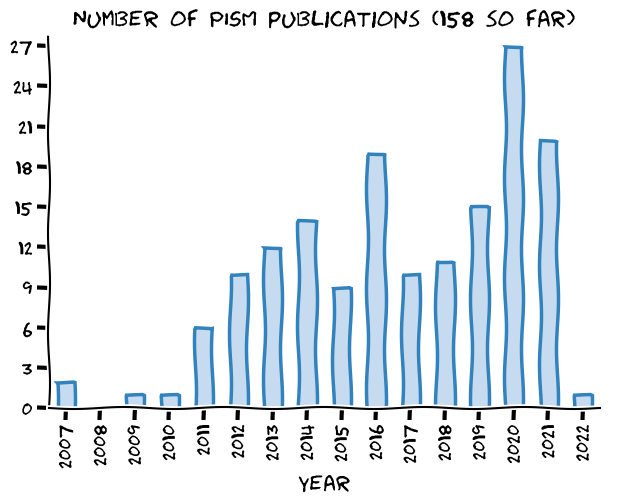
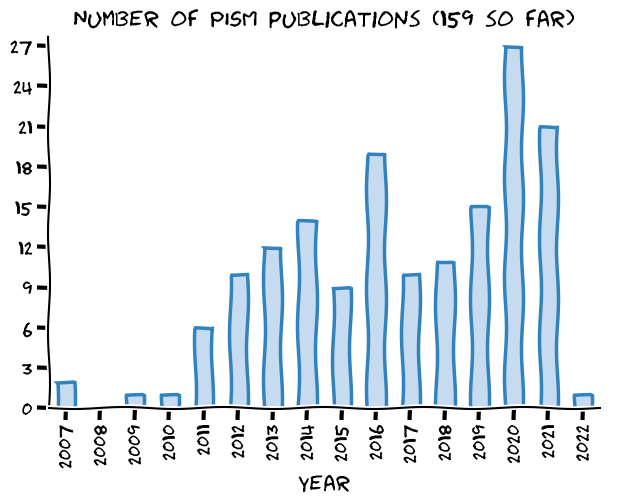
[skip ci] Update the website

diff --git a/publications/index.html b/publications/index.html
@@ -305,6 +305,7 @@ window.onscroll = function() {
   <li>J. Lai and A. M. Anders. Climatic controls on mountain glacier basal thermal regimes dictate spatial patterns of glacial erosion. <em>Earth Surface Dynamics</em>, 9(4):845–859, 2021. URL: <a href="https://esurf.copernicus.org/articles/9/845/2021/">https://esurf.copernicus.org/articles/9/845/2021/</a>, <a href="https://doi.org/10.5194/esurf-9-845-2021">doi:10.5194/esurf-9-845-2021</a>.</li>
   <li>D. P. Lowry, M. Krapp, N. R. Golledge, and A. Alevropoulos-Borrill. The influence of emissions scenarios on future Antarctic ice loss is unlikely to emerge this century. <em>Communications Earth &amp; Environment</em>, 2021. URL: <a href="https://www.nature.com/articles/s43247-021-00289-2">https://www.nature.com/articles/s43247-021-00289-2</a>, <a href="https://doi.org/10.1038/s43247-021-00289-2">doi:10.1038/s43247-021-00289-2</a>.</li>
   <li>L. Niu, G. Lohmann, P. Gierz, E. J. Gowan, and G. Knorr. Coupled climate-ice sheet modelling of MIS-13 reveals a sensitive Cordilleran Ice Sheet. <em>Global and Planetary Change</em>, pages 103474, 2021. URL: <a href="https://www.sciencedirect.com/science/article/pii/S092181812100059X">https://www.sciencedirect.com/science/article/pii/S092181812100059X</a>, <a href="https://doi.org/10.1016/j.gloplacha.2021.103474">doi:10.1016/j.gloplacha.2021.103474</a>.</li>
+  <li>Antony J. Payne, Sophie Nowicki, Ayako Abe-Ouchi, Cécile Agosta, Patrick Alexander, Torsten Albrecht, Xylar Asay-Davis, Andy Aschwanden, Alice Barthel, Thomas J. Bracegirdle, Reinhard Calov, Christopher Chambers, Youngmin Choi, Richard Cullather, Joshua Cuzzone, Christophe Dumas, Tamsin L. Edwards, Denis Felikson, Xavier Fettweis, Benjamin K. Galton-Fenzi, Heiko Goelzer, Rupert Gladstone, Nicholas R. Golledge, Jonathan M. Gregory, Ralf Greve, Tore Hattermann, Matthew J. Hoffman, Angelika Humbert, Philippe Huybrechts, Nicolas C. Jourdain, Thomas Kleiner, Peter Kuipers Munneke, Eric Larour, Sebastien Le clec’h, Victoria Lee, Gunter Leguy, William H. Lipscomb, Christopher M. Little, Daniel P. Lowry, Mathieu Morlighem, Isabel Nias, Frank Pattyn, Tyler Pelle, Stephen F. Price, Aurélien Quiquet, Ronja Reese, Martin Rückamp, Nicole-Jeanne Schlegel, Hélène Seroussi, Andrew Shepherd, Erika Simon, Donald Slater, Robin S. Smith, Fiammetta Straneo, Sainan Sun, Lev Tarasov, Luke D. Trusel, Jonas Van Breedam, Roderik van de Wal, Michiel van den Broeke, Ricarda Winkelmann, Chen Zhao, Tong Zhang, and Thomas Zwinger. Future sea level change under coupled model intercomparison project phase 5 and phase 6 scenarios from the Greenland and Antarctic ice sheets. <em>Geophysical Research Letters</em>, 48(16):e2020GL091741, 2021. e2020GL091741 2020GL091741. URL: <a href="https://agupubs.onlinelibrary.wiley.com/doi/abs/10.1029/2020GL091741">https://agupubs.onlinelibrary.wiley.com/doi/abs/10.1029/2020GL091741</a>, <a href="https://arxiv.org/abs/https://agupubs.onlinelibrary.wiley.com/doi/pdf/10.1029/2020GL091741">arXiv:https://agupubs.onlinelibrary.wiley.com/doi/pdf/10.1029/2020GL091741</a>, <a href="https://doi.org/10.1029/2020GL091741">doi:10.1029/2020GL091741</a>.</li>
   <li>S. J. Phipps, J. L. Roberts, and M. A. King. An iterative process for efficient optimisation of parameters in geoscientific models: a demonstration using the parallel ice sheet model (pism) version 0.7.3. <em>Geoscientific Model Development</em>, 14(8):5107–5124, 2021. URL: <a href="https://gmd.copernicus.org/articles/14/5107/2021/">https://gmd.copernicus.org/articles/14/5107/2021/</a>, <a href="https://doi.org/10.5194/gmd-14-5107-2021">doi:10.5194/gmd-14-5107-2021</a>.</li>
   <li>T. Schlemm and A. Levermann. A simple parametrization of mélange buttressing for calving glaciers. <em>The Cryosphere</em>, 15(2):531–545, 2021. URL: <a href="https://tc.copernicus.org/articles/15/531/2021/">https://tc.copernicus.org/articles/15/531/2021/</a>, <a href="https://doi.org/10.5194/tc-15-531-2021">doi:10.5194/tc-15-531-2021</a>.</li>
   <li>J. Seguinot and I. Delaney. Last-glacial-cycle glacier erosion potential in the alps. <em>Earth Surface Dynamics</em>, 9(4):923–935, 2021. URL: <a href="https://esurf.copernicus.org/articles/9/923/2021/">https://esurf.copernicus.org/articles/9/923/2021/</a>, <a href="https://doi.org/10.5194/esurf-9-923-2021">doi:10.5194/esurf-9-923-2021</a>.</li>

diff --git a/publications/published.md b/publications/published.md
@@ -16,14 +16,15 @@
 10. J\. Lai and A\. M\. Anders\. Climatic controls on mountain glacier basal thermal regimes dictate spatial patterns of glacial erosion\. *Earth Surface Dynamics*, 9\(4\):845–859, 2021\. URL: [https://esurf\.copernicus\.org/articles/9/845/2021/](https://esurf.copernicus.org/articles/9/845/2021/), [doi:10\.5194/esurf\-9\-845\-2021](https://doi.org/10.5194/esurf-9-845-2021)\.   
 11. D\. P\. Lowry, M\. Krapp, N\. R\. Golledge, and A\. Alevropoulos\-Borrill\. The influence of emissions scenarios on future Antarctic ice loss is unlikely to emerge this century\. *Communications Earth &amp; Environment*, 2021\. URL: [https://www\.nature\.com/articles/s43247\-021\-00289\-2](https://www.nature.com/articles/s43247-021-00289-2), [doi:10\.1038/s43247\-021\-00289\-2](https://doi.org/10.1038/s43247-021-00289-2)\.   
 12. L\. Niu, G\. Lohmann, P\. Gierz, E\. J\. Gowan, and G\. Knorr\. Coupled climate\-ice sheet modelling of MIS\-13 reveals a sensitive Cordilleran Ice Sheet\. *Global and Planetary Change*, pages 103474, 2021\. URL: [https://www\.sciencedirect\.com/science/article/pii/S092181812100059X](https://www.sciencedirect.com/science/article/pii/S092181812100059X), [doi:10\.1016/j\.gloplacha\.2021\.103474](https://doi.org/10.1016/j.gloplacha.2021.103474)\.   
-13. S\. J\. Phipps, J\. L\. Roberts, and M\. A\. King\. An iterative process for efficient optimisation of parameters in geoscientific models: a demonstration using the parallel ice sheet model \(pism\) version 0\.7\.3\. *Geoscientific Model Development*, 14\(8\):5107–5124, 2021\. URL: [https://gmd\.copernicus\.org/articles/14/5107/2021/](https://gmd.copernicus.org/articles/14/5107/2021/), [doi:10\.5194/gmd\-14\-5107\-2021](https://doi.org/10.5194/gmd-14-5107-2021)\.   
-14. T\. Schlemm and A\. Levermann\. A simple parametrization of mélange buttressing for calving glaciers\. *The Cryosphere*, 15\(2\):531–545, 2021\. URL: [https://tc\.copernicus\.org/articles/15/531/2021/](https://tc.copernicus.org/articles/15/531/2021/), [doi:10\.5194/tc\-15\-531\-2021](https://doi.org/10.5194/tc-15-531-2021)\.   
-15. J\. Seguinot and I\. Delaney\. Last\-glacial\-cycle glacier erosion potential in the alps\. *Earth Surface Dynamics*, 9\(4\):923–935, 2021\. URL: [https://esurf\.copernicus\.org/articles/9/923/2021/](https://esurf.copernicus.org/articles/9/923/2021/), [doi:10\.5194/esurf\-9\-923\-2021](https://doi.org/10.5194/esurf-9-923-2021)\.   
-16. J\. Sutter, H\. Fischer, and O\. Eisen\. Investigating the internal structure of the Antarctic ice sheet: the utility of isochrones for spatiotemporal ice\-sheet model calibration\. *The Cryosphere*, 15\(8\):3839–3860, 2021\. URL: [https://tc\.copernicus\.org/articles/15/3839/2021/](https://tc.copernicus.org/articles/15/3839/2021/), [doi:10\.5194/tc\-15\-3839\-2021](https://doi.org/10.5194/tc-15-3839-2021)\.   
-17. Michael E\. Weber, Nicholas R\. Golledge, Chris J\. Fogwill, Chris S\. M\. Turney, and Zoë A\. Thomas\. Decadal\-scale onset and termination of antarctic ice\-mass loss during the last deglaciation\. *Nature Communications*, nov 2021\. [doi:10\.1038/s41467\-021\-27053\-6](https://doi.org/10.1038/s41467-021-27053-6)\.   
-18. Q\. Yan, L\. A\. Owen, Z\. Zhang, H\. Wang, T\. Wei, N\. Jiang, and R\. Zhang\. Divergent evolution of glaciation across high\-mountain asia during the last four glacial\-interglacial cycles\. *Geophysical Research Letters*, n/a\(n/a\):e2021GL092411, 2021\. URL: [https://agupubs\.onlinelibrary\.wiley\.com/doi/abs/10\.1029/2021GL092411](https://agupubs.onlinelibrary.wiley.com/doi/abs/10.1029/2021GL092411), [doi:10\.1029/2021GL092411](https://doi.org/10.1029/2021GL092411)\.   
-19. M\. Zeitz, R\. Reese, J\. Beckmann, U\. Krebs\-Kanzow, and R\. Winkelmann\. Impact of the melt\-albedo feedback on the future evolution of the Greenland ice sheet with PISM\-dEBM\-simple\. *The Cryosphere*, 2021\. URL: [https://tc\.copernicus\.org/preprints/tc\-2021\-91/](https://tc.copernicus.org/preprints/tc-2021-91/), [doi:10\.5194/tc\-2021\-91](https://doi.org/10.5194/tc-2021-91)\.   
-20. Manja ŽEBRE, M\. Akif SARIKAYA, Uroš STEPIŠNIK, Renato R\. COLUCCI, Cengiz YILDIRIM, Attila ÇİNER, Adem CANDAŞ, Igor VLAHOVIĆ, Bruno TOMLJENOVIĆ, Bojan MATOŠ, and Klaus M\. WILCKEN\. An early glacial maximum during the last glacial cycle on the northern velebit mt\. \(croatia\)\. *Geomorphology*, 2021\. URL: [https://www\.sciencedirect\.com/science/article/pii/S0169555X21003263](https://www.sciencedirect.com/science/article/pii/S0169555X21003263), [doi:10\.1016/j\.geomorph\.2021\.107918](https://doi.org/10.1016/j.geomorph.2021.107918)\.   
+13. Antony J\. Payne, Sophie Nowicki, Ayako Abe\-Ouchi, Cécile Agosta, Patrick Alexander, Torsten Albrecht, Xylar Asay\-Davis, Andy Aschwanden, Alice Barthel, Thomas J\. Bracegirdle, Reinhard Calov, Christopher Chambers, Youngmin Choi, Richard Cullather, Joshua Cuzzone, Christophe Dumas, Tamsin L\. Edwards, Denis Felikson, Xavier Fettweis, Benjamin K\. Galton\-Fenzi, Heiko Goelzer, Rupert Gladstone, Nicholas R\. Golledge, Jonathan M\. Gregory, Ralf Greve, Tore Hattermann, Matthew J\. Hoffman, Angelika Humbert, Philippe Huybrechts, Nicolas C\. Jourdain, Thomas Kleiner, Peter Kuipers Munneke, Eric Larour, Sebastien Le clec'h, Victoria Lee, Gunter Leguy, William H\. Lipscomb, Christopher M\. Little, Daniel P\. Lowry, Mathieu Morlighem, Isabel Nias, Frank Pattyn, Tyler Pelle, Stephen F\. Price, Aurélien Quiquet, Ronja Reese, Martin Rückamp, Nicole\-Jeanne Schlegel, Hélène Seroussi, Andrew Shepherd, Erika Simon, Donald Slater, Robin S\. Smith, Fiammetta Straneo, Sainan Sun, Lev Tarasov, Luke D\. Trusel, Jonas Van Breedam, Roderik van de Wal, Michiel van den Broeke, Ricarda Winkelmann, Chen Zhao, Tong Zhang, and Thomas Zwinger\. Future sea level change under coupled model intercomparison project phase 5 and phase 6 scenarios from the Greenland and Antarctic ice sheets\. *Geophysical Research Letters*, 48\(16\):e2020GL091741, 2021\. e2020GL091741 2020GL091741\. URL: [https://agupubs\.onlinelibrary\.wiley\.com/doi/abs/10\.1029/2020GL091741](https://agupubs.onlinelibrary.wiley.com/doi/abs/10.1029/2020GL091741), [arXiv:https://agupubs\.onlinelibrary\.wiley\.com/doi/pdf/10\.1029/2020GL091741](https://arxiv.org/abs/https://agupubs.onlinelibrary.wiley.com/doi/pdf/10.1029/2020GL091741), [doi:10\.1029/2020GL091741](https://doi.org/10.1029/2020GL091741)\.   
+14. S\. J\. Phipps, J\. L\. Roberts, and M\. A\. King\. An iterative process for efficient optimisation of parameters in geoscientific models: a demonstration using the parallel ice sheet model \(pism\) version 0\.7\.3\. *Geoscientific Model Development*, 14\(8\):5107–5124, 2021\. URL: [https://gmd\.copernicus\.org/articles/14/5107/2021/](https://gmd.copernicus.org/articles/14/5107/2021/), [doi:10\.5194/gmd\-14\-5107\-2021](https://doi.org/10.5194/gmd-14-5107-2021)\.   
+15. T\. Schlemm and A\. Levermann\. A simple parametrization of mélange buttressing for calving glaciers\. *The Cryosphere*, 15\(2\):531–545, 2021\. URL: [https://tc\.copernicus\.org/articles/15/531/2021/](https://tc.copernicus.org/articles/15/531/2021/), [doi:10\.5194/tc\-15\-531\-2021](https://doi.org/10.5194/tc-15-531-2021)\.   
+16. J\. Seguinot and I\. Delaney\. Last\-glacial\-cycle glacier erosion potential in the alps\. *Earth Surface Dynamics*, 9\(4\):923–935, 2021\. URL: [https://esurf\.copernicus\.org/articles/9/923/2021/](https://esurf.copernicus.org/articles/9/923/2021/), [doi:10\.5194/esurf\-9\-923\-2021](https://doi.org/10.5194/esurf-9-923-2021)\.   
+17. J\. Sutter, H\. Fischer, and O\. Eisen\. Investigating the internal structure of the Antarctic ice sheet: the utility of isochrones for spatiotemporal ice\-sheet model calibration\. *The Cryosphere*, 15\(8\):3839–3860, 2021\. URL: [https://tc\.copernicus\.org/articles/15/3839/2021/](https://tc.copernicus.org/articles/15/3839/2021/), [doi:10\.5194/tc\-15\-3839\-2021](https://doi.org/10.5194/tc-15-3839-2021)\.   
+18. Michael E\. Weber, Nicholas R\. Golledge, Chris J\. Fogwill, Chris S\. M\. Turney, and Zoë A\. Thomas\. Decadal\-scale onset and termination of antarctic ice\-mass loss during the last deglaciation\. *Nature Communications*, nov 2021\. [doi:10\.1038/s41467\-021\-27053\-6](https://doi.org/10.1038/s41467-021-27053-6)\.   
+19. Q\. Yan, L\. A\. Owen, Z\. Zhang, H\. Wang, T\. Wei, N\. Jiang, and R\. Zhang\. Divergent evolution of glaciation across high\-mountain asia during the last four glacial\-interglacial cycles\. *Geophysical Research Letters*, n/a\(n/a\):e2021GL092411, 2021\. URL: [https://agupubs\.onlinelibrary\.wiley\.com/doi/abs/10\.1029/2021GL092411](https://agupubs.onlinelibrary.wiley.com/doi/abs/10.1029/2021GL092411), [doi:10\.1029/2021GL092411](https://doi.org/10.1029/2021GL092411)\.   
+20. M\. Zeitz, R\. Reese, J\. Beckmann, U\. Krebs\-Kanzow, and R\. Winkelmann\. Impact of the melt\-albedo feedback on the future evolution of the Greenland ice sheet with PISM\-dEBM\-simple\. *The Cryosphere*, 2021\. URL: [https://tc\.copernicus\.org/preprints/tc\-2021\-91/](https://tc.copernicus.org/preprints/tc-2021-91/), [doi:10\.5194/tc\-2021\-91](https://doi.org/10.5194/tc-2021-91)\.   
+21. Manja ŽEBRE, M\. Akif SARIKAYA, Uroš STEPIŠNIK, Renato R\. COLUCCI, Cengiz YILDIRIM, Attila ÇİNER, Adem CANDAŞ, Igor VLAHOVIĆ, Bruno TOMLJENOVIĆ, Bojan MATOŠ, and Klaus M\. WILCKEN\. An early glacial maximum during the last glacial cycle on the northern velebit mt\. \(croatia\)\. *Geomorphology*, 2021\. URL: [https://www\.sciencedirect\.com/science/article/pii/S0169555X21003263](https://www.sciencedirect.com/science/article/pii/S0169555X21003263), [doi:10\.1016/j\.geomorph\.2021\.107918](https://doi.org/10.1016/j.geomorph.2021.107918)\.   
 
 ### 2020
 
